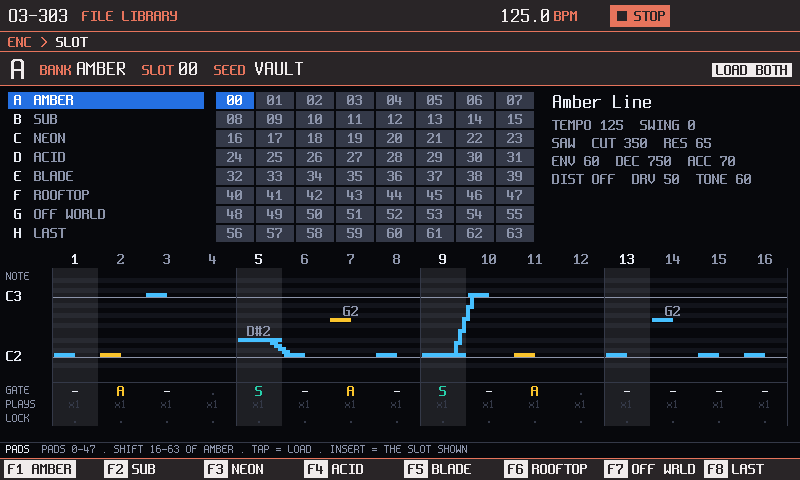
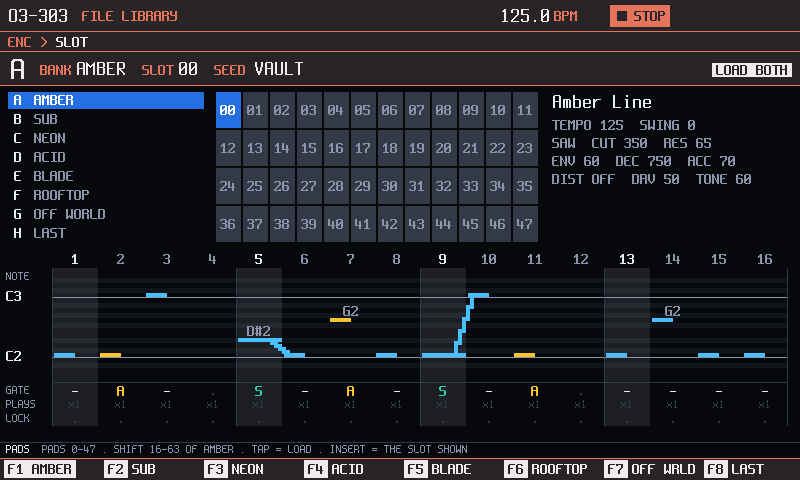
feat(library): FILE LIBRARY draws its slots as the pads are, 4 rows of 12, and Up and Down move a row of twelve (F12)
The grid showed the bank's 64 slots 8 wide while the pads load them 12 wide. It now draws the pad window: slots 0..47, or 16..63 while
Shift is held; the LEDs dim-mark every fourth pad; Up and Down move 12 (HELP says SLOT - 12 / SLOT + 12). The cursor is drawn only when
its slot is in the window (the strip still names it). Nothing saved changes.

Checks: file_screen, help_texts, library (a new Up = a row above case), skin_file and manual_images tests pass; scenario library.txt looked at
(07, 09, 11); docs/manual/img/library.png regenerated. Unit check owed: the grid by eye on the unit.
Not run locally: the scenarios shards (remote run).

Changed region(s): [[0.25, 0.1875, 0.6875, 0.5]]

diff --git a/app/src/vault_screen.cpp b/app/src/vault_screen.cpp
@@ -26,8 +26,10 @@ using ui::Rect;
 
 constexpr int kInfoH = 34;
 constexpr int kTopY = frame::kStatusH + 40;  // the banks, the grid and the details start here (area-relative)
-constexpr int kRowH = 19;     // 8 rows
+constexpr int kRowH = 19;     // 8 rows (the banks)
 constexpr int kTopH = 8 * kRowH;
+constexpr unsigned kPadCols = 12;  // the pads are 12 wide, 4 high: the slot grid is drawn the same way
+constexpr int kSlotRowH = kTopH / 4;
 constexpr int kHeroH = 176;
 constexpr unsigned kToastMs = 2500;
 
@@ -238,10 +240,10 @@ void VaultScreen::input(app::Context& ctx, const Input& in) noexcept {
       move_slot(1);
       break;
     case Button::Up:
-      move_slot(-8);
+      move_slot(-static_cast<int>(kPadCols));
       break;
     case Button::Down:
-      move_slot(8);
+      move_slot(static_cast<int>(kPadCols));
       break;
     case Button::Insert:
       load_slot(ctx);
@@ -277,7 +279,7 @@ void VaultScreen::help(const app::Context& ctx, app::Help& h) const noexcept {
 void VaultScreen::leds(app::Context& ctx, app::PadLeds& leds) noexcept {
   const bool shift = ctx.panel().shift();  // Shift held: the pads are slots 16..63
   for (unsigned pad = 0; pad < app::kPadCount; ++pad) {
-    leds.set(pad, library_slot_of_pad(pad, shift) == slot_ ? app::kLedOn : (pad % 8u == 0u ? app::kLedLow : app::kLedDim));
+    leds.set(pad, library_slot_of_pad(pad, shift) == slot_ ? app::kLedOn : (pad % 4u == 0u ? app::kLedLow : app::kLedDim));
   }
 }
 
@@ -333,10 +335,12 @@ void VaultScreen::draw(app::Context& ctx, ui::Renderer& r, const Rect& area) noe
     r.text(cell.x + 26, ty, seq::gen::bank_name(b), cur ? Color::SelText : Color::TextDim, Face::Label);
   }
 
-  // ---- The slots: 8 x 8 ----
+  // ---- The slots as the pads are: 4 rows of 12, slots 0..47, or 16..63 while Shift is held ----
   const int gx = 216;
-  for (unsigned s = 0; s < seq::gen::kSlots; ++s) {
-    const Rect cell{gx + static_cast<int>(s % 8u) * 40, top + static_cast<int>(s / 8u) * kRowH, 38, kRowH - 2};
+  const unsigned base = ctx.panel().shift() ? kShiftPadBase : 0u;
+  for (unsigned i = 0; i < app::kPadCount; ++i) {
+    const unsigned s = base + i;
+    const Rect cell{gx + static_cast<int>(i % kPadCols) * 27, top + static_cast<int>(i / kPadCols) * kSlotRowH, 25, kSlotRowH - 2};
     const bool cur = s == slot_;
     r.panel(cell, cur ? Color::Sel : Color::Empty);
     char num[4] = {static_cast<char>('0' + s / 10u), static_cast<char>('0' + s % 10u), '\0', '\0'};

diff --git a/tests/library_test.cpp b/tests/library_test.cpp
@@ -75,12 +75,18 @@ TEST_CASE("the library: INSERT loads the slot shown into the pattern and the sou
   for (unsigned i = 0; i < 16; ++i) {
     CHECK(t.pat().steps[i].note == slot.pattern.steps[i].note);
   }
-  // Arrows: LEFT / RIGHT one slot, UP / DOWN a row of eight.
+  // Arrows: LEFT / RIGHT one slot, UP / DOWN a row of the pads (twelve).
   t.tap(Button::Down);
   t.tap(Button::Left);
   t.tap(Button::Up);
   t.tap(Button::Right);
-  t.tap(Button::Insert);  // 52 + 8 - 1 - 8 + 1 = 52 again
+  t.tap(Button::Insert);  // 52 + 12 - 1 - 12 + 1 = 52 again
+  for (unsigned i = 0; i < 16; ++i) {
+    CHECK(t.pat().steps[i].note == slot.pattern.steps[i].note);
+  }
+  t.tap(Button::Up);  // 52 - 12 = 40: the row above on the pads
+  t.tap(Button::Insert);
+  seq::gen::factory(slot, 3, 40);
   for (unsigned i = 0; i < 16; ++i) {
     CHECK(t.pat().steps[i].note == slot.pattern.steps[i].note);
   }

diff --git a/app/src/help_texts.cpp b/app/src/help_texts.cpp
@@ -127,8 +127,8 @@ constexpr Buttons make_library() noexcept {
   b.add(Button::Insert, "LOAD THE SLOT SHOWN");
   b.add(Button::Left, "SLOT - 1");
   b.add(Button::Right, "SLOT + 1");
-  b.add(Button::Up, "SLOT - 8");
-  b.add(Button::Down, "SLOT + 8");
+  b.add(Button::Up, "SLOT - 12");
+  b.add(Button::Down, "SLOT + 12");
   return b;
 }
 

diff --git a/docs/MANUAL.md b/docs/MANUAL.md
@@ -655,7 +655,7 @@ cancels. A name has at most 15 characters.
 Press **File** twice. The library holds 512 generated lines with their sounds, in eight banks of 64: AMBER, SUB, NEON, ACID, BLADE, ROOFTOP,
 OFF WORLD and LAST.
 
-![FILE LIBRARY: the bank list A to H, the 64 slots of AMBER, the details of slot 00 "Amber Line", and its pattern](manual/img/library.png)
+![FILE LIBRARY: the bank list A to H, the slots of AMBER laid out as the pads are, the details of slot 00 "Amber Line", and its pattern](manual/img/library.png)
 
 *Bank AMBER, slot 00. On the right, the slot's sound; at the bottom, its line.*
 
@@ -664,7 +664,7 @@ OFF WORLD and LAST.
   LEDs show slots 16 to 63, the slot shown lit; the PADS line says "PADS 0-47 . SHIFT 16-63"). Either loads into the pattern shown and the sound, at once. A load also sets the tempo, the voice and the
   distortion. UNDO takes back the line only, not the tempo or the sound: to try lines and leave your sound alone, set **Shift + F2** to
   LOAD LINE first.
-- The encoder and the arrows (Left and Right one slot, Up and Down eight) also pick a slot; **Insert** loads the slot shown. **Shift + turn** still
+- The encoder and the arrows (Left and Right one slot, Up and Down a row of twelve, as on the pads) also pick a slot; **Insert** loads the slot shown. **Shift + turn** still
   picks the seed.
 - **Shift + F2** chooses what a load takes: LOAD BOTH (the line and the sound), LOAD LINE or LOAD SOUND. A line comes with its
   tempo, so LOAD LINE still sets the tempo.

diff --git a/docs/CHANGELOG.md b/docs/CHANGELOG.md
@@ -21,6 +21,9 @@ hear says so in plain words.
 
 ### What works differently (a habit changes)
 
+- **FILE LIBRARY's slots are drawn as the pads are.** The grid is 4 rows of 12 (slots 0 to 47, or 16 to 63 while Shift is held), so the
+  first pad of row 2 is the first cell of row 2. Up and Down move a row of twelve (they moved eight), and the pad LEDs dim-mark every
+  fourth pad. Nothing saved changes.
 - **A chain of two or more patterns loops.** Hold Pattern while the line plays and tap two or more patterns: they now play round and
   round (A, B, C, B, C ...: the pattern that was playing is not part of the round) until a single tap with Pattern held replaces the chain.
   Before, the chain played once and its last pattern then repeated for ever. One queued pattern behaves as before. Nothing in a saved
